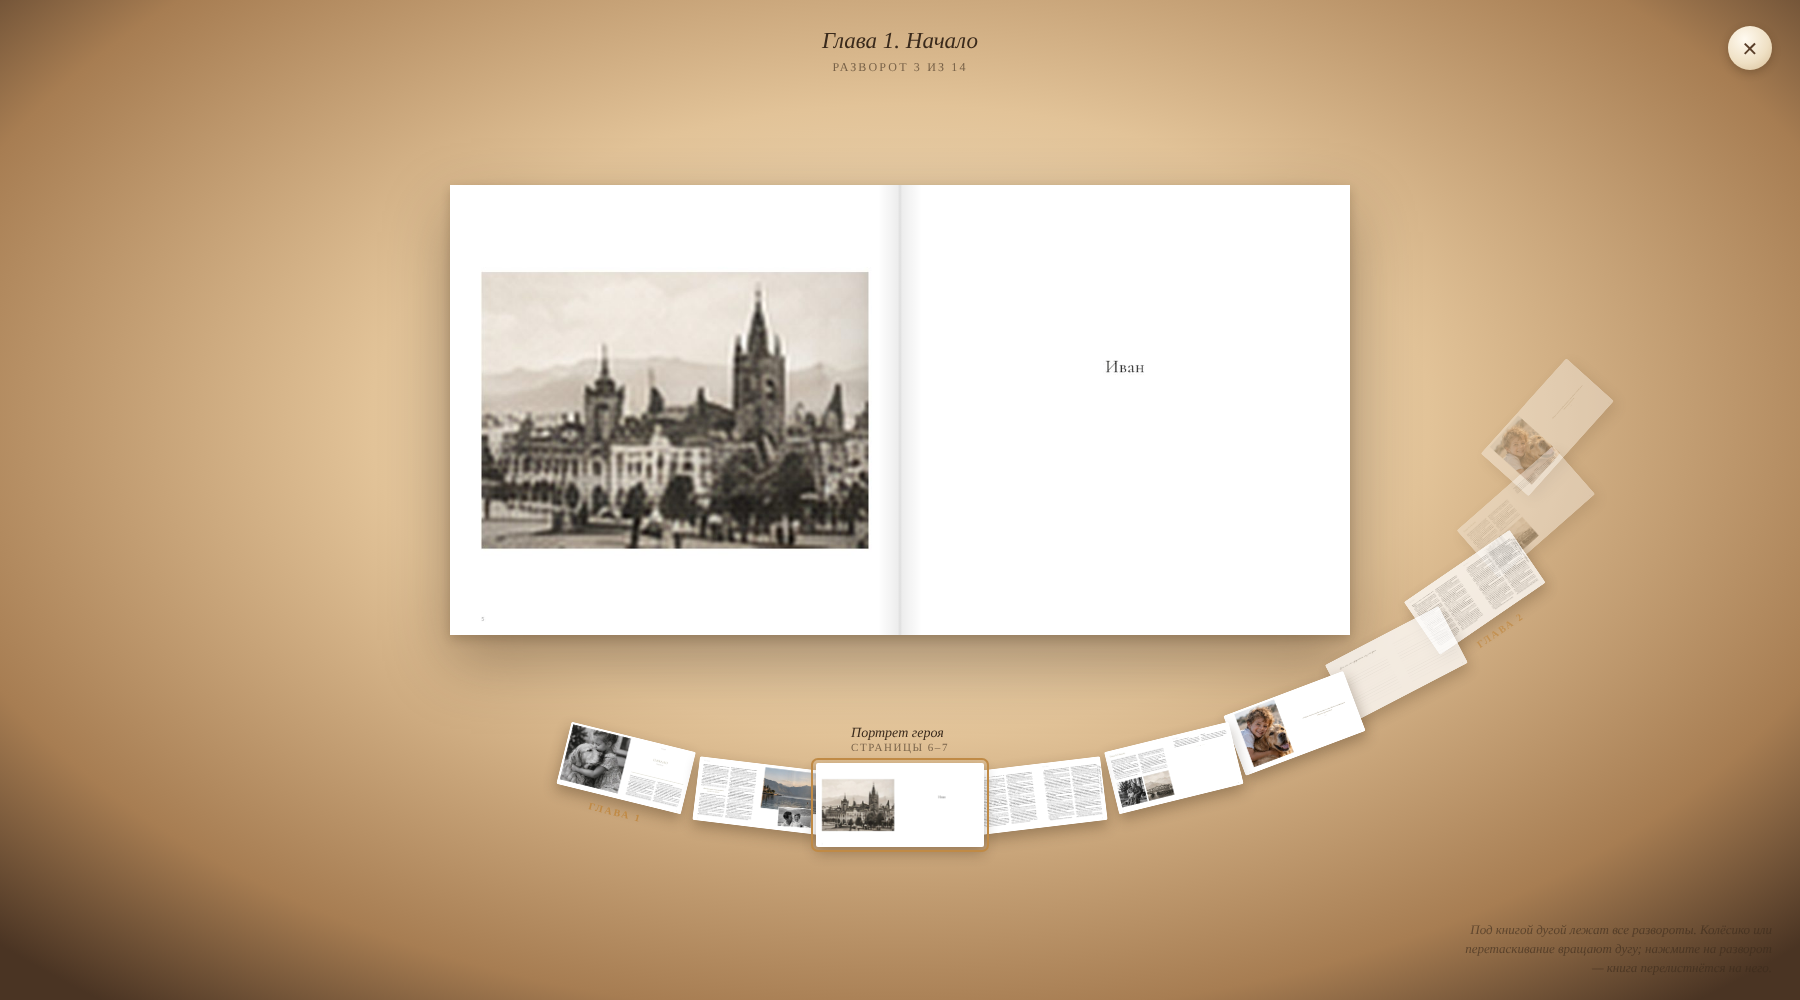
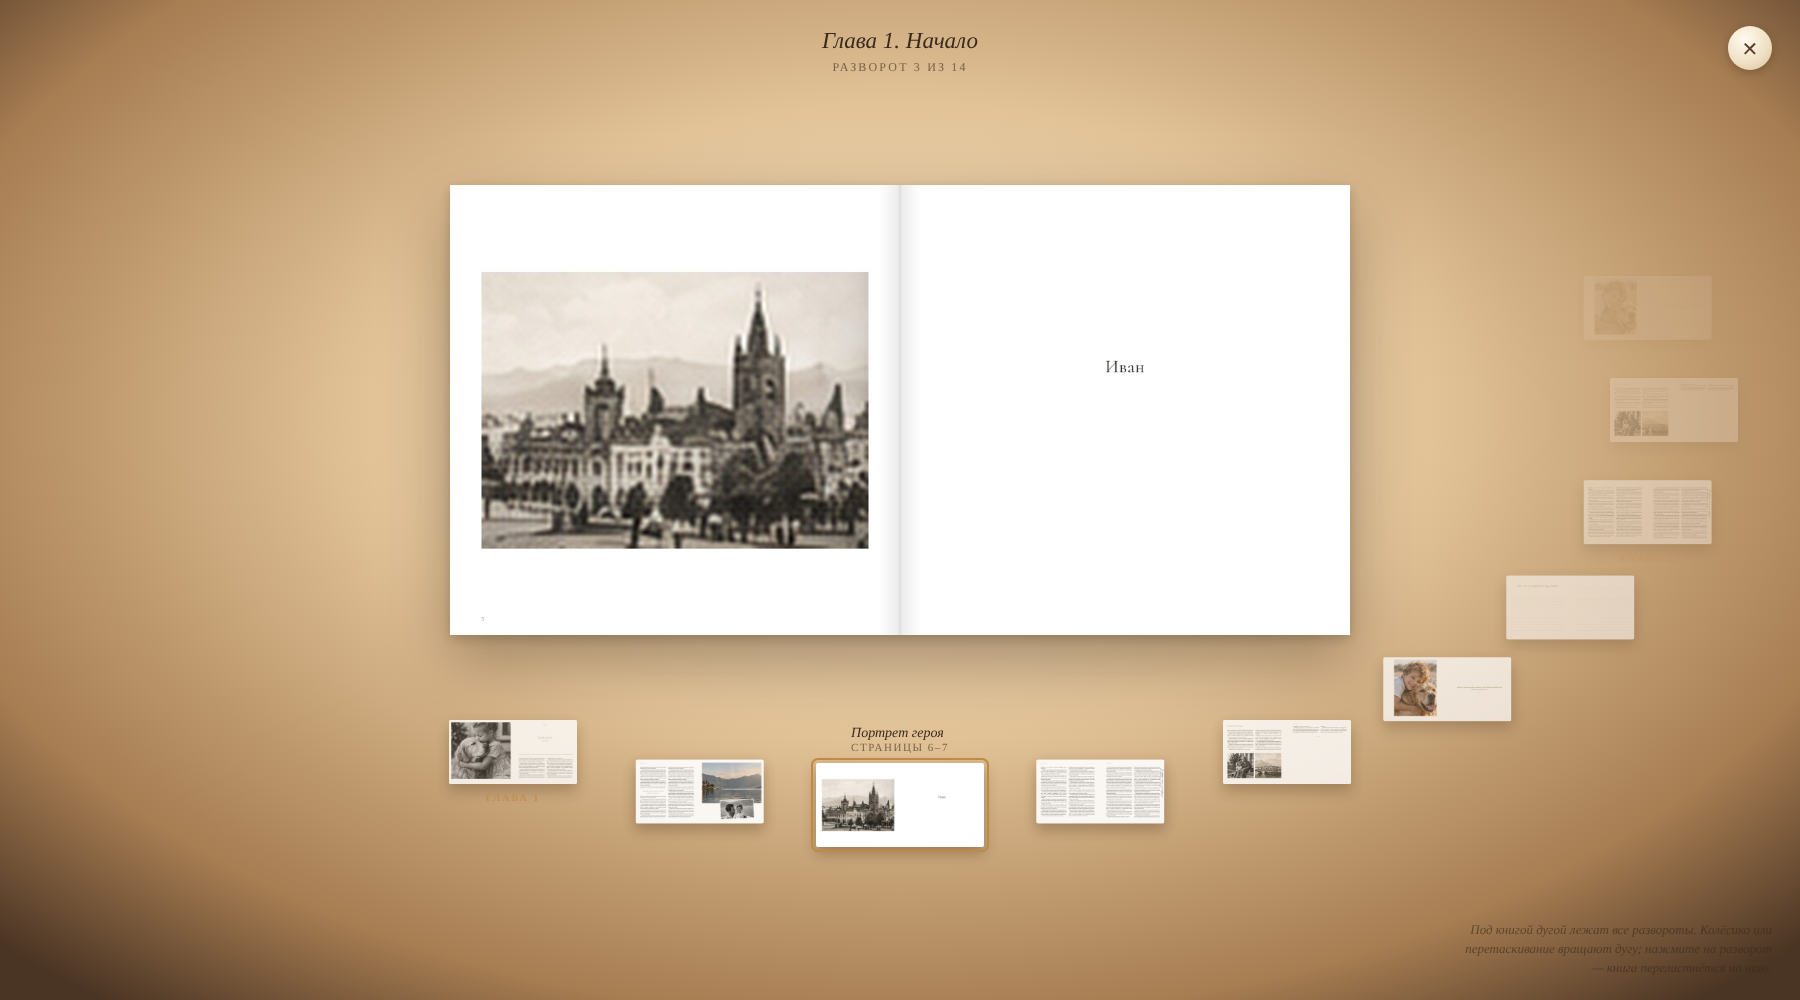
Макет дуги: реже, без наклона, яркость убывает от центра
Claude-Session: https://claude.ai/code/session_01523ibQ4Bpb3TawEG9d2zYP

Changed region(s): [[0.5289, 0.372, 0.9644, 0.837], [0.2489, 0.713, 0.4667, 0.837]]

diff --git a/qa/mockups/spreads-arc.html b/qa/mockups/spreads-arc.html
@@ -44,15 +44,15 @@ spreads.forEach((s,i)=>s.pages=`страницы ${2+i*2}–${3+i*2}`);
 const arc=document.getElementById('arc');let at=0,turn=0;
 const els=spreads.map((s,i)=>{const d=document.createElement('div');d.className='th'+(s.first?' chap':'');if(s.first)d.dataset.ch=s.ch.split('.')[0];
   d.innerHTML=`<img src="carousel/s_${s.img}.jpg" alt=""><div class="tip">${s.name}<small>${s.pages}</small></div>`;d.onclick=()=>open(i);arc.appendChild(d);return d;});
-const STEP=12.5; // градусов между разворотами на дуге
+const STEP=15; // градусов между разворотами на дуге
 function layout(){
   const W=innerWidth,H=innerHeight,book=document.getElementById('book').getBoundingClientRect();
-  const cx=W/2,cy=book.top+book.height/2,rx=Math.max(book.width/2+150,W*.36),ry=book.height/2+Math.min(H*.2,170);
+  const cx=W/2,cy=book.top+book.height/2,rx=Math.max(book.width/2+170,W*.43),ry=book.height/2+Math.min(H*.2,170);
   els.forEach((el,i)=>{const deg=(i-turn)*STEP,a=Math.abs(deg),th=deg*Math.PI/180;
     const big=i===at?168:128;el.style.width=big+'px';
     const x=cx+rx*Math.sin(th)-big/2,y=cy+ry*Math.cos(th)-big/4;
-    el.style.transform=`translate(${x}px,${y}px) rotate(${(-deg*.55).toFixed(1)}deg)`;
-    el.style.opacity=a>92?0:a>70?.35:a>40?.75:1;el.style.pointerEvents=a>92?'none':'auto';el.style.zIndex=100-Math.round(a);
+    el.style.transform=`translate(${x}px,${y}px)`;
+    const n=Math.abs(i-turn),FADE=[1,.9,.8,.7,.55,.38,.2,.08];el.style.opacity=FADE[n]??0;el.style.pointerEvents=n<FADE.length?'auto':'none';el.style.zIndex=100-Math.round(a);
     el.classList.toggle('is-on',i===at);});
   document.getElementById('count').textContent=`Разворот ${at+1} из ${spreads.length}`;document.getElementById('chapter').textContent=spreads[at].ch;
 }
